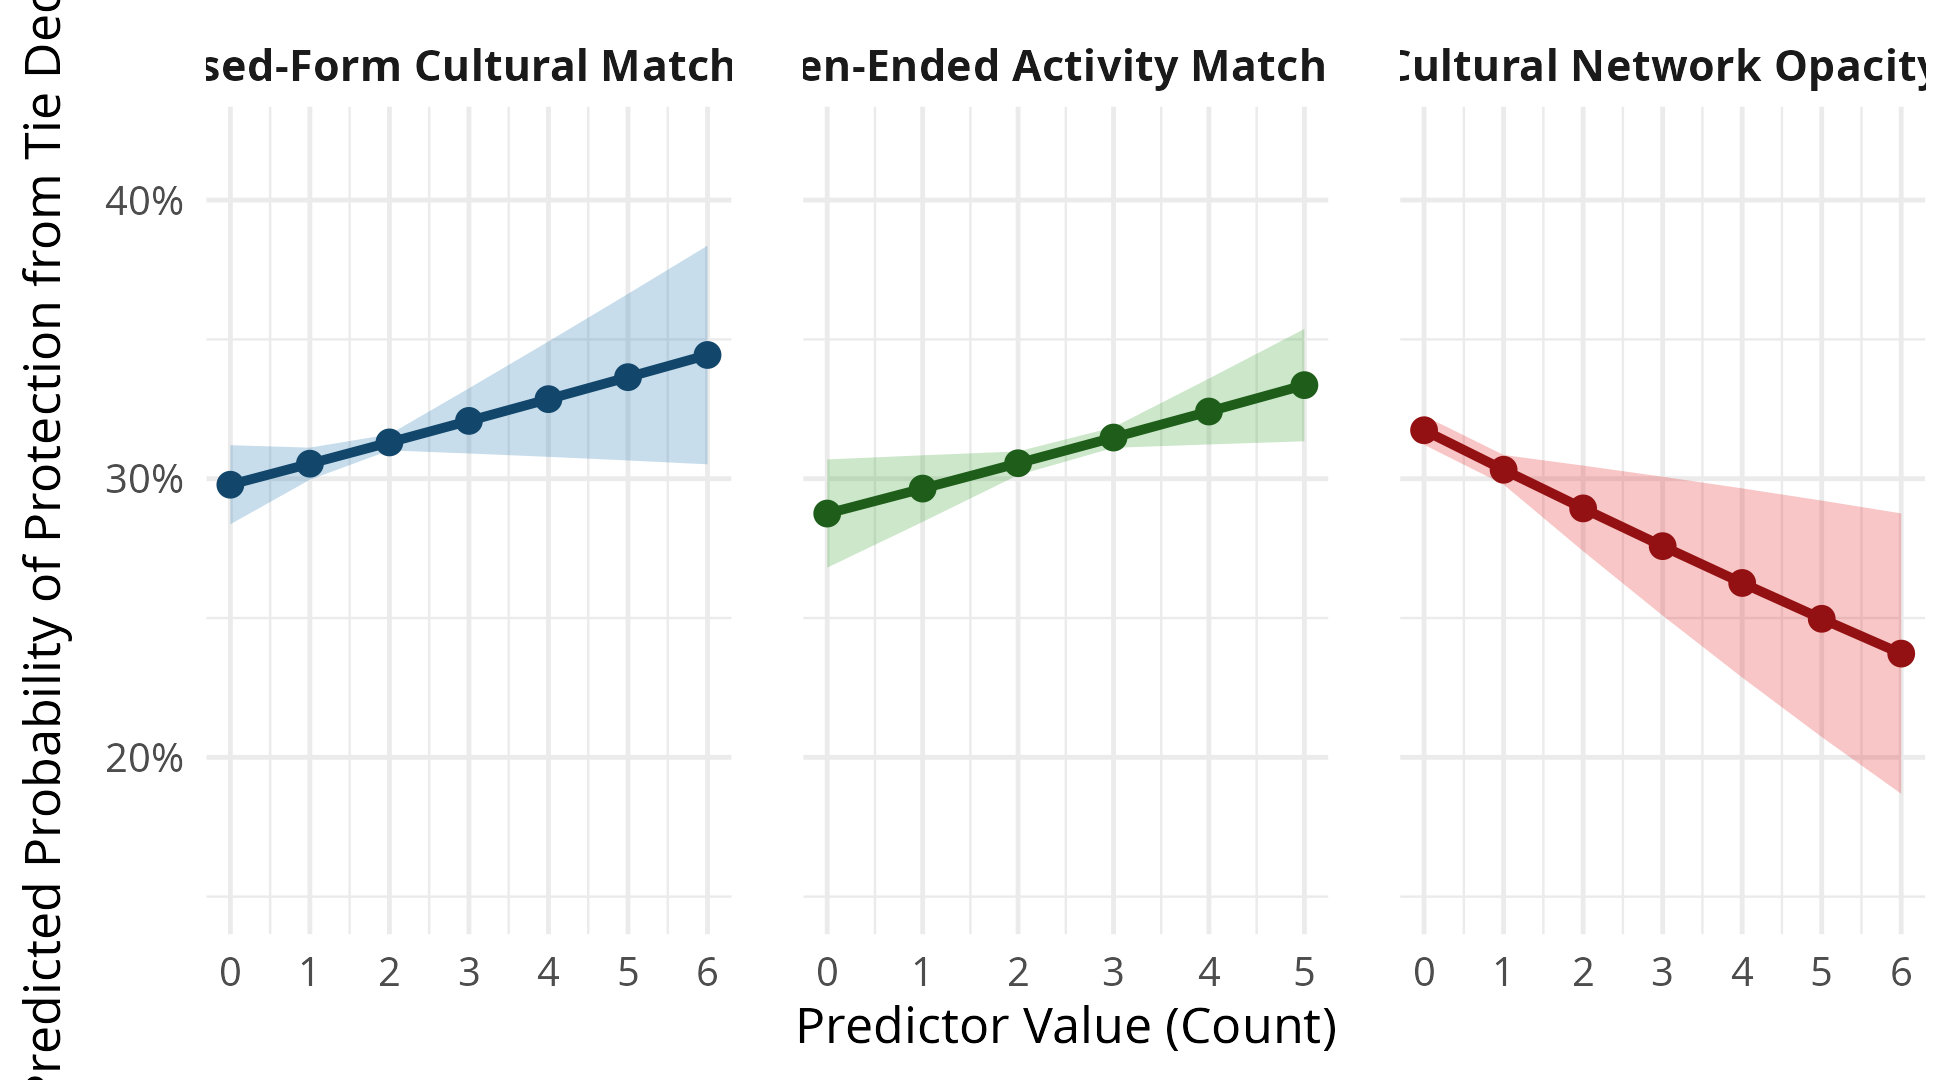
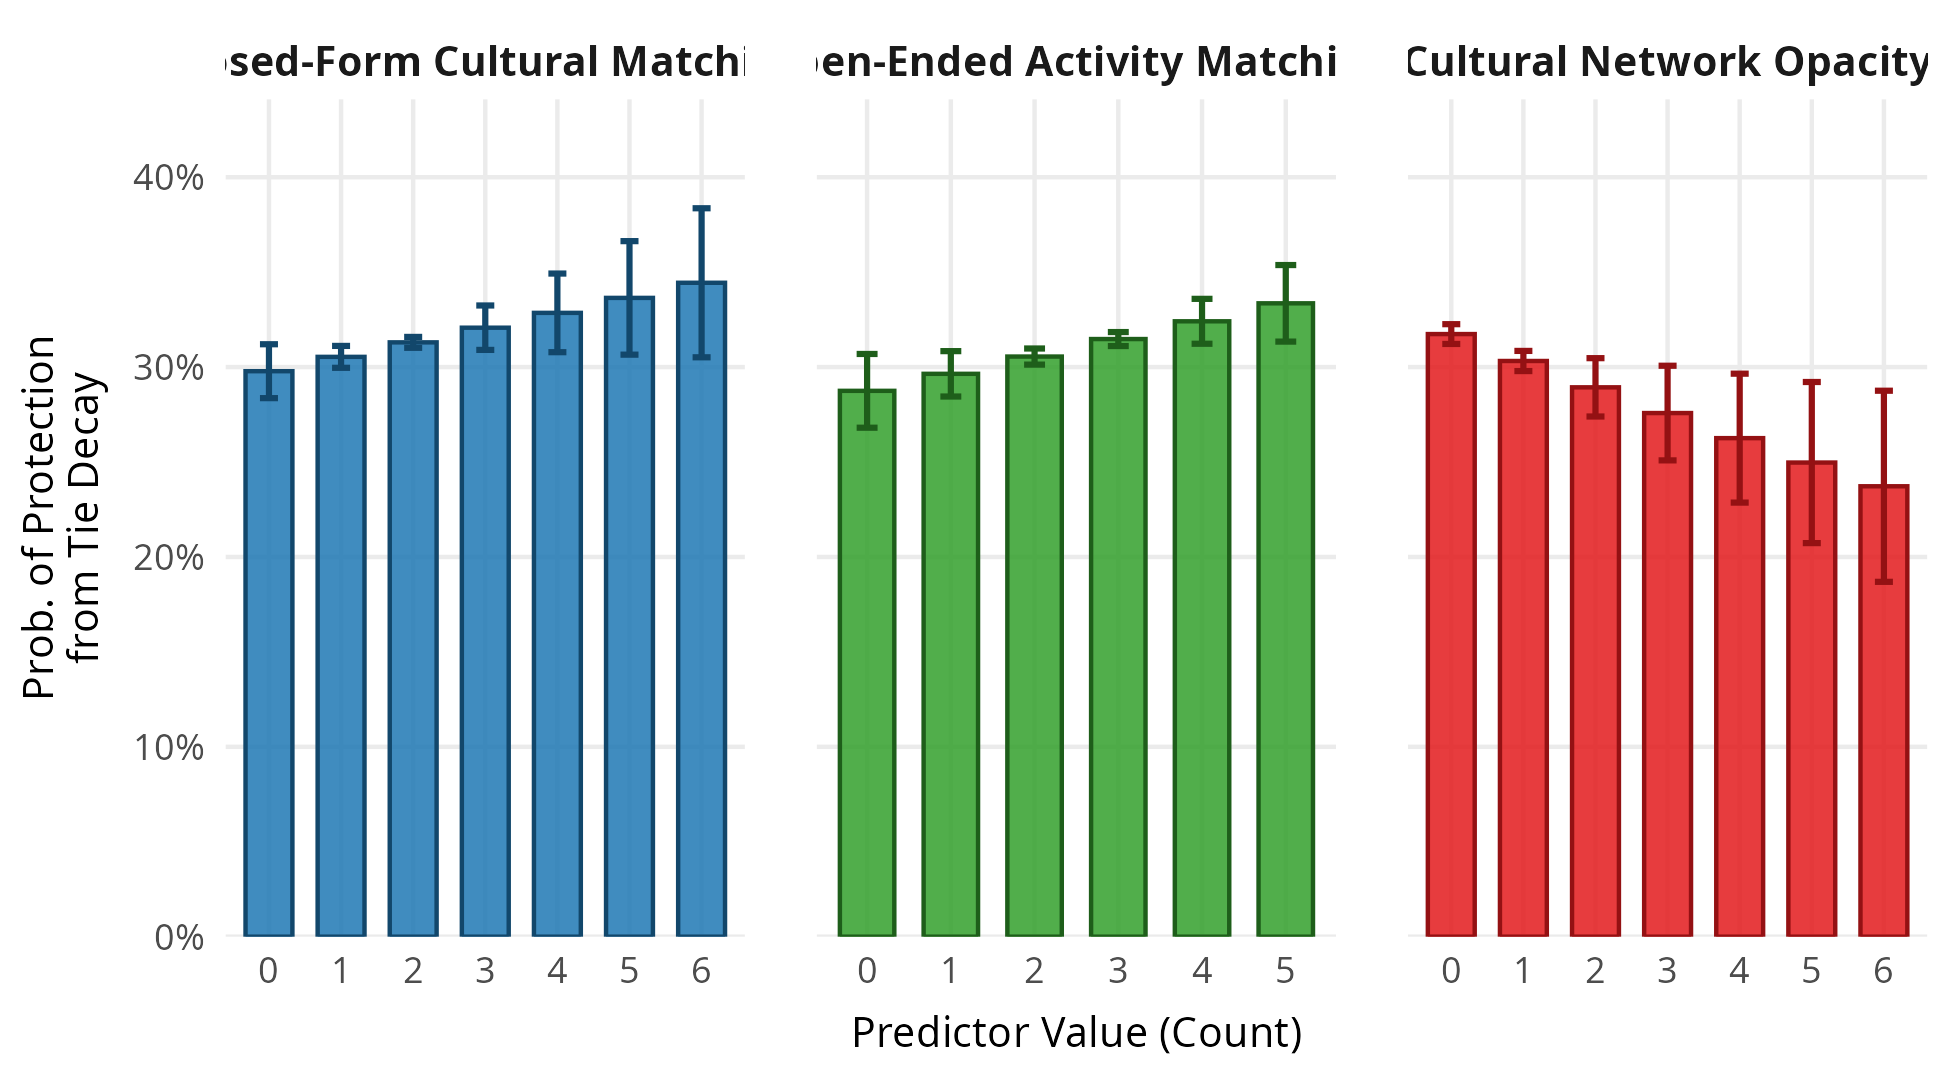
style: use italics for in-text emphasis, format two-line figure titles, and redesign Figure 3 as bar plot

diff --git a/manuscript-R1.tex b/manuscript-R1.tex
@@ -75,7 +75,7 @@ Building on this insight, recent theoretical elaborations specify how matching a
 
 A major challenge for any newly formed social relationship is what \citet{burt2000}, drawing on \citet{stinchcombe1965}, refers to as the \textit{``liability of newness.''} Newly formed dyadic ties are fragile and exhibit a high baseline hazard of decay (``tie decay''), which steeply declines as a relationship matures and ripens into close friendship. What protects a tie from decay and helps it overcome this liability of newness? While classic network models emphasize structural factors (such as network constraint or multiplexity) and dyadic factors (such as subjective closeness), we propose that \textit{cultural matching} is a vital protective mechanism against tie decay. Rather than merely indicating demographic similarity, cultural matching serves as an active element that helps people establish basic commonalities in outlook. At the micro-level, cultural matching protects ties from decay by reducing interactional friction, generating positive emotional energy during shared rituals \citep{collins2004}, and providing a common cognitive and behavioral baseline that makes the tie more salient and rewarding to maintain \citep{dimaggio1987}.
 
-When ego and alter exhibit cultural matching, they can coordinate behavior with minimal friction. Over time, this cultural matching increases the cognitive salience of the alter, rendering the tie resistant to decay and protecting it from decay in the ego's active network \citep{burt2000}. Therefore, we expect that cultural matching will significantly reduce the hazard of tie decay, net of subjective closeness and structural controls (\textbf{Hypothesis 1}).
+When ego and alter exhibit cultural matching, they can coordinate behavior with minimal friction. Over time, this cultural matching increases the cognitive salience of the alter, rendering the tie resistant to decay and protecting it from decay in the ego's active network \citep{burt2000}. Therefore, we expect that cultural matching will significantly reduce the hazard of tie decay, net of subjective closeness and structural controls (\textit{Hypothesis 1}).
 
 \subsection{Cultural Network Opacity}\label{cultural-network-opacity}
 
@@ -83,13 +83,13 @@ If shared cultural knowledge stabilizes ties, then a \textit{lack} of mutual cul
 
 \subsection{Tie Strength Contingencies}\label{tie-strength-contingencies}
 
-Furthermore, recent research highlights a critical theoretical tension regarding how the effects of cultural matching intersect with tie strength. On the one hand, drawing on the work of \citet{edelmann2014cultural-a77} and \citet{vaisey2010}, one might expect that cultural matching is primarily associated with the maintenance of \textit{strong} ties. In this view, already grounded friendships characterized by subjective closeness require ongoing cultural matching to sustain intimacy over time, making close ties highly sensitive to cultural matching for protection from decay (\textbf{Hypothesis 3a}). 
+Furthermore, recent research highlights a critical theoretical tension regarding how the effects of cultural matching intersect with tie strength. On the one hand, drawing on the work of \citet{edelmann2014cultural-a77} and \citet{vaisey2010}, one might expect that cultural matching is primarily associated with the maintenance of \textit{strong} ties. In this view, already grounded friendships characterized by subjective closeness require ongoing cultural matching to sustain intimacy over time, making close ties highly sensitive to cultural matching for protection from decay (\textit{Hypothesis 3a}). 
 
-On the other hand, a competing perspective, drawn from structural network theory, suggests that strong ties are highly resilient due to emotional inertia, multiplexity, and structural embeddedness, making them less dependent on cultural matching for protection from tie decay. Under this view, cultural matching acts as essential scaffolding specifically for \textit{weak} or nascent ties. Weak ties suffer from a high baseline liability of newness \citep{burt2000}; without cultural matching to grease the wheels of interaction and provide focal points for engagement, they rapidly decay. Thus, the protective power of cultural matching against tie decay should be most pronounced for weak ties (\textbf{Hypothesis 3b}). We estimate interaction models to adjudicate between these competing predictions.
+On the other hand, a competing perspective, drawn from structural network theory, suggests that strong ties are highly resilient due to emotional inertia, multiplexity, and structural embeddedness, making them less dependent on cultural matching for protection from tie decay. Under this view, cultural matching acts as essential scaffolding specifically for \textit{weak} or nascent ties. Weak ties suffer from a high baseline liability of newness \citep{burt2000}; without cultural matching to grease the wheels of interaction and provide focal points for engagement, they rapidly decay. Thus, the protective power of cultural matching against tie decay should be most pronounced for weak ties (\textit{Hypothesis 3b}). We estimate interaction models to adjudicate between these competing predictions.
 
 \subsection{Summary of Hypotheses}\label{summary-of-hypotheses}
 
-In sum, we evaluate three core hypotheses regarding the role of culture in network evolution. First, reflecting the stabilizing capacity of cultural matching, \textbf{Hypothesis 1} posits that cultural matching significantly reduces the hazard of tie decay. Second, capturing the relational liabilities of mutual cultural ignorance, \textbf{Hypothesis 2} states that cultural network opacity independently increases the hazard of tie decay. Finally, to adjudicate between competing theoretical mechanisms regarding tie strength, we formulate two alternative predictions: \textbf{Hypothesis 3a} anticipates that protection from tie decay through cultural matching is amplified among subjectively close ties, whereas \textbf{Hypothesis 3b} proposes that protection from tie decay through cultural matching is amplified among weak ties to overcome the liability of newness.
+In sum, we evaluate three core hypotheses regarding the role of culture in network evolution. First, reflecting the stabilizing capacity of cultural matching, \textit{Hypothesis 1} posits that cultural matching significantly reduces the hazard of tie decay. Second, capturing the relational liabilities of mutual cultural ignorance, \textit{Hypothesis 2} states that cultural network opacity independently increases the hazard of tie decay. Finally, to adjudicate between competing theoretical mechanisms regarding tie strength, we formulate two alternative predictions: \textit{Hypothesis 3a} anticipates that protection from tie decay through cultural matching is amplified among subjectively close ties, whereas \textit{Hypothesis 3b} proposes that protection from tie decay through cultural matching is amplified among weak ties to overcome the liability of newness.
 
 \section{Data and Methods}\label{data-and-methods}
 
@@ -205,7 +205,7 @@ Fourth, an important question concerns the \textit{temporal horizon} of cultural
 Finally, our empirical focus on a college-age cohort during emerging adulthood delineates specific institutional scope conditions for our claims. The transition to college represents a unique developmental and institutional ecology characterized by high baseline network churn, rapid relational renegotiation, and geographic concentration \citep{mcfarland2014network-735}. While this setting provides an ideal testing ground for observing tie decay and protection from decay in real time, future research should examine whether cultural matching operates similarly to protect ties from decay across different life stages and institutional domains. In particular, comparative studies in workplace organizations, civic associations, or among older adults \citep{cornwell2008social-257} could shed light on how the capacity of cultural matching to protect against tie decay varies across differing levels of structural constraint.
 
 \subsection{Implications: Cultural Capital and Relational Maintenance}\label{implications}
-These findings carry significant theoretical implications for our understanding of the relationship between tastes and networks, particularly regarding the role of tie strength. Our results heavily favor the empirical implications of the strong-tie matching prediction (\textbf{Hypothesis 3a}) over the weak-tie scaffolding prediction (\textbf{Hypothesis 3b}). Aligning with previous research \citep{edelmann2014cultural-a77, vaisey2010}, our longitudinal event history framework reveals that deep, institutionalized friendships require ongoing cultural matching to sustain intimacy and prevent tie decay. It is the \textit{strong} ties that are highly sensitive to cultural matching and opacity. Weak ties, suffering from a high liability of newness, rapidly decay with or without cultural matching. These results extend recent observations in life course and network research showing that while significant network turnover is a ubiquitous feature of critical life transitions, individuals actively curate their core networks to maintain stable, supportive ties \citep{roy2022turnover, weiss2022life, kempnich2024how, vacchiano2024networked}. More broadly, our findings challenge the assumption of the pure network-transmission perspective, which treats cultural tastes as merely fluid by-products of existing social ties \citep{mark2003}. Instead, our findings align more closely with the cultural capital perspective \citep{bourdieu1984}, suggesting that tastes function as durable, portable resources that individuals actively use to select, maintain, and discard social relationships. 
+These findings carry significant theoretical implications for our understanding of the relationship between tastes and networks, particularly regarding the role of tie strength. Our results heavily favor the empirical implications of the strong-tie matching prediction (\textit{Hypothesis 3a}) over the weak-tie scaffolding prediction (\textit{Hypothesis 3b}). Aligning with previous research \citep{edelmann2014cultural-a77, vaisey2010}, our longitudinal event history framework reveals that deep, institutionalized friendships require ongoing cultural matching to sustain intimacy and prevent tie decay. It is the \textit{strong} ties that are highly sensitive to cultural matching and opacity. Weak ties, suffering from a high liability of newness, rapidly decay with or without cultural matching. These results extend recent observations in life course and network research showing that while significant network turnover is a ubiquitous feature of critical life transitions, individuals actively curate their core networks to maintain stable, supportive ties \citep{roy2022turnover, weiss2022life, kempnich2024how, vacchiano2024networked}. More broadly, our findings challenge the assumption of the pure network-transmission perspective, which treats cultural tastes as merely fluid by-products of existing social ties \citep{mark2003}. Instead, our findings align more closely with the cultural capital perspective \citep{bourdieu1984}, suggesting that tastes function as durable, portable resources that individuals actively use to select, maintain, and discard social relationships.
 
 Returning to the puzzle posed in the introduction---how do we account for durable cultural profiles in the face of volatile networks \citep{bourdieu1984, holt1998}---our results help to close the loop. If persons use relatively stable cultural dispositions to selectively maintain their networks, it suggests that cultural capital is not merely a passive status marker or a ``thin'' effluvium of network position. Rather, it is an active navigational tool for managing social environments. People churn through weak ties at a high baseline rate, but they rely on their durable cultural compass to actively curate and protect the core relationships that matter from decay.
 
@@ -219,21 +219,21 @@ Beyond network theory, these findings carry practical implications for instituti
 \begin{figure}[htbp]
 \centering
 \includegraphics[width=\linewidth,keepaspectratio]{Plots/main_effects.png}
-\caption{Predicted Probability of Protection from Tie Decay by Cultural Matching and Cultural Network Opacity.}\label{fig-combined}
+\caption{Predicted Probability of Protection from Tie Decay\\ by Cultural Matching and Cultural Network Opacity.}\label{fig-combined}
 \end{figure}
 
 \newpage
 \begin{figure}[htbp]
 \centering
 \includegraphics[width=\linewidth,keepaspectratio]{Plots/interaction_closeness.png}
-\caption{Predicted Probability of Protection from Tie Decay by Cultural Matching, Cultural Network Opacity, and Subjective Closeness.}\label{fig-closeness-interactions}
+\caption{Predicted Probability of Protection from Tie Decay\\ by Cultural Matching, Network Opacity, and Subjective Closeness.}\label{fig-closeness-interactions}
 \end{figure}
 
 \newpage
 \begin{figure}[htbp]
 \centering
 \includegraphics[width=\linewidth,keepaspectratio]{Plots/fe_predicted_probabilities.png}
-\caption{Predicted Probability of Protection from Tie Decay from Ego Fixed-Effects Model.}\label{fig-fe-predictions}
+\caption{Predicted Probability of Protection from Tie Decay\\ from Ego Fixed-Effects Model.}\label{fig-fe-predictions}
 \end{figure}
 
 

diff --git a/AGENTS.md b/AGENTS.md
@@ -50,6 +50,9 @@ To ensure strict conceptual and empirical clarity across the manuscript, tables,
 2. **Predictor Terminology**:
    - Strictly and exclusively use the theoretical term **"cultural matching"** (e.g., *"closed-form cultural matching"*, *"open-ended activity matching"*, *"protection from tie decay through cultural matching"*).
    - **Prohibited Predictor Variants**: Do **NOT** use *"cultural alignment"*, *"cultural affinity"*, *"cultural resonance"*, *"cultural compatibility"*, *"shared tastes"*, or *"shared cultural tastes"*.
+3. **In-Text Emphasis (Italics vs. Boldface)**:
+   - Strictly use **italics** (`\textit{...}` or `\emph{...}`) instead of boldface (`\textbf{...}`) for emphasizing terms, concepts, hypothesis labels (e.g., *\textit{Hypothesis 1}*), and statistical variables in running manuscript prose.
+   - Reserve boldface strictly for section headings, table captions, and table header rows.
 
 ---
 
